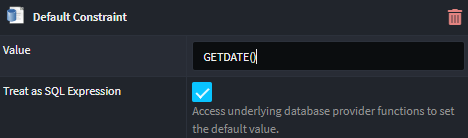
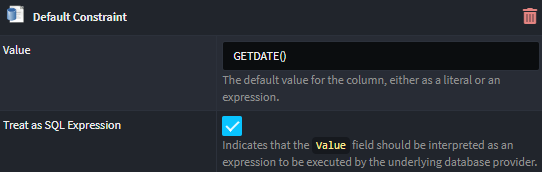
Improved documentation around the `Default Constraint` stereotype, as well as improved in-application hints.

diff --git a/Modules/Intent.Modules.Metadata.RDBMS/docs/README.md b/Modules/Intent.Modules.Metadata.RDBMS/docs/README.md
@@ -198,9 +198,14 @@ Once applied, the following properties can be set:
   - **Literal**: Specifies the constant value assigned to the column when no value is provided.
   - **Expression**: Defines the dynamic formula or function used to generate the default value.
 
-- **Treat as SQL Expression**: Flags whether the **Value** field is a `literal` or `expression`.
+- **Treat as SQL Expression**: Indicates whether the **Value** field should be interpreted as an `expression` (instead of a literal) to be executed by the underlying database provider. Set to true when the **Value** is an `expression`.
+
+An example of a `literal` default value constraint:
 
 ![Default Constraint Literal](images/default-constraint-literal.png)
+
+An example of a `expression` default value constraint:
+
 ![Default Constraint Expression](images/default-constraint-expression.png)
 
 ### Create a Text Constraint

diff --git a/Modules/Intent.Modules.Metadata.RDBMS/release-notes.md b/Modules/Intent.Modules.Metadata.RDBMS/release-notes.md
@@ -1,6 +1,10 @@
+### Version 3.7.1
+
+- Improvement: Improved documentation around the `Default Constraint` stereotype, as well as improved in-application hints.
+
 ### Version 3.7.0
 
-- Improvement: Improvemed documentation and added a number of help topics
+- Improvement: Improved documentation and added a number of help topics
 - Improvement: Removed legacy `Key Creation Mode` option `Remove all managed PKs and FKs`
 
 ### Version 3.6.2
